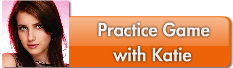
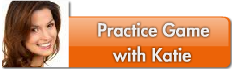
fixed images and bottom button

diff --git a/web/protected/views/user/inviteFriends.php b/web/protected/views/user/inviteFriends.php
@@ -63,7 +63,7 @@
         </div>
         <div class="footerbutton ">
 
-   <input type="button" id="sendinvite" class="basebutton right" value="Send Challenge" />
+   <input type="button" id="sendinvite" class="basebutton" value="Invite Selected Friends Now!" />
         </div>
     </div>            
 </div>
